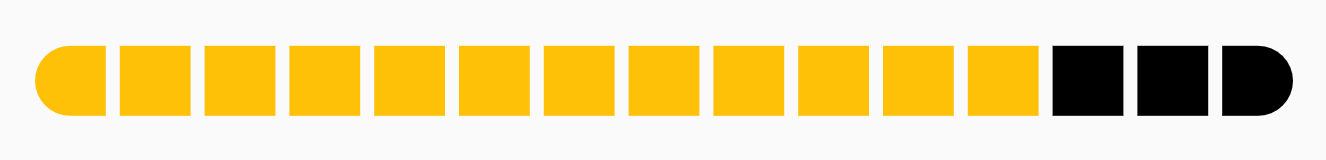
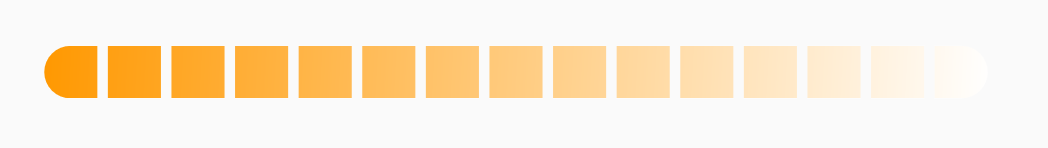
Updated linear indicator docs and screenshots

diff --git a/example/horizontal_bar.dart b/example/horizontal_bar.dart
@@ -44,6 +44,11 @@ class HorizontalBar extends StatelessWidget {
                       selectedColor: Colors.amber,
                       unselectedColor: Colors.black,
                       roundedEdges: Radius.circular(10),
+                      gradientColor: LinearGradient(
+                        begin: Alignment.topLeft,
+                        end: Alignment.bottomRight,
+                        colors: [Colors.orange, Colors.white],
+                      ),
                     ),
                     StepProgressIndicator(
                       totalSteps: 100,
@@ -53,6 +58,16 @@ class HorizontalBar extends StatelessWidget {
                       selectedColor: Colors.yellow,
                       unselectedColor: Colors.cyan,
                       roundedEdges: Radius.circular(10),
+                      selectedGradientColor: LinearGradient(
+                        begin: Alignment.topLeft,
+                        end: Alignment.bottomRight,
+                        colors: [Colors.yellowAccent, Colors.deepOrange],
+                      ),
+                      unselectedGradientColor: LinearGradient(
+                        begin: Alignment.topLeft,
+                        end: Alignment.bottomRight,
+                        colors: [Colors.black, Colors.blue],
+                      ),
                     ),
                     StepProgressIndicator(
                       totalSteps: 12,
@@ -62,6 +77,16 @@ class HorizontalBar extends StatelessWidget {
                       progressDirection: TextDirection.rtl,
                       selectedColor: Colors.green,
                       unselectedColor: Colors.black12,
+                      selectedGradientColor: LinearGradient(
+                        begin: Alignment.topLeft,
+                        end: Alignment.bottomRight,
+                        colors: [Colors.yellowAccent, Colors.deepOrange],
+                      ),
+                      unselectedGradientColor: LinearGradient(
+                        begin: Alignment.topLeft,
+                        end: Alignment.bottomRight,
+                        colors: [Colors.black, Colors.blue],
+                      ),
                     ),
                     StepProgressIndicator(
                       totalSteps: 5,

diff --git a/README.md b/README.md
@@ -91,6 +91,11 @@ StepProgressIndicator(
     selectedColor: Colors.amber,
     unselectedColor: Colors.black,
     roundedEdges: Radius.circular(10),
+    gradientColor: LinearGradient(
+    begin: Alignment.topLeft,
+    end: Alignment.bottomRight,
+    colors: [Colors.orange, Colors.white],
+    ),
 ),
 ```
 
@@ -106,6 +111,16 @@ StepProgressIndicator(
     selectedColor: Colors.yellow,
     unselectedColor: Colors.cyan,
     roundedEdges: Radius.circular(10),
+    selectedGradientColor: LinearGradient(
+    begin: Alignment.topLeft,
+    end: Alignment.bottomRight,
+    colors: [Colors.yellowAccent, Colors.deepOrange],
+    ),
+    unselectedGradientColor: LinearGradient(
+    begin: Alignment.topLeft,
+    end: Alignment.bottomRight,
+    colors: [Colors.black, Colors.blue],
+    ),
 ),
 ```
 
@@ -121,6 +136,16 @@ StepProgressIndicator(
     progressDirection: TextDirection.rtl,
     selectedColor: Colors.green,
     unselectedColor: Colors.black12,
+    selectedGradientColor: LinearGradient(
+    begin: Alignment.topLeft,
+    end: Alignment.bottomRight,
+    colors: [Colors.yellowAccent, Colors.deepOrange],
+    ),
+    unselectedGradientColor: LinearGradient(
+    begin: Alignment.topLeft,
+    end: Alignment.bottomRight,
+    colors: [Colors.black, Colors.blue],
+    ),
 )
 ```
 
